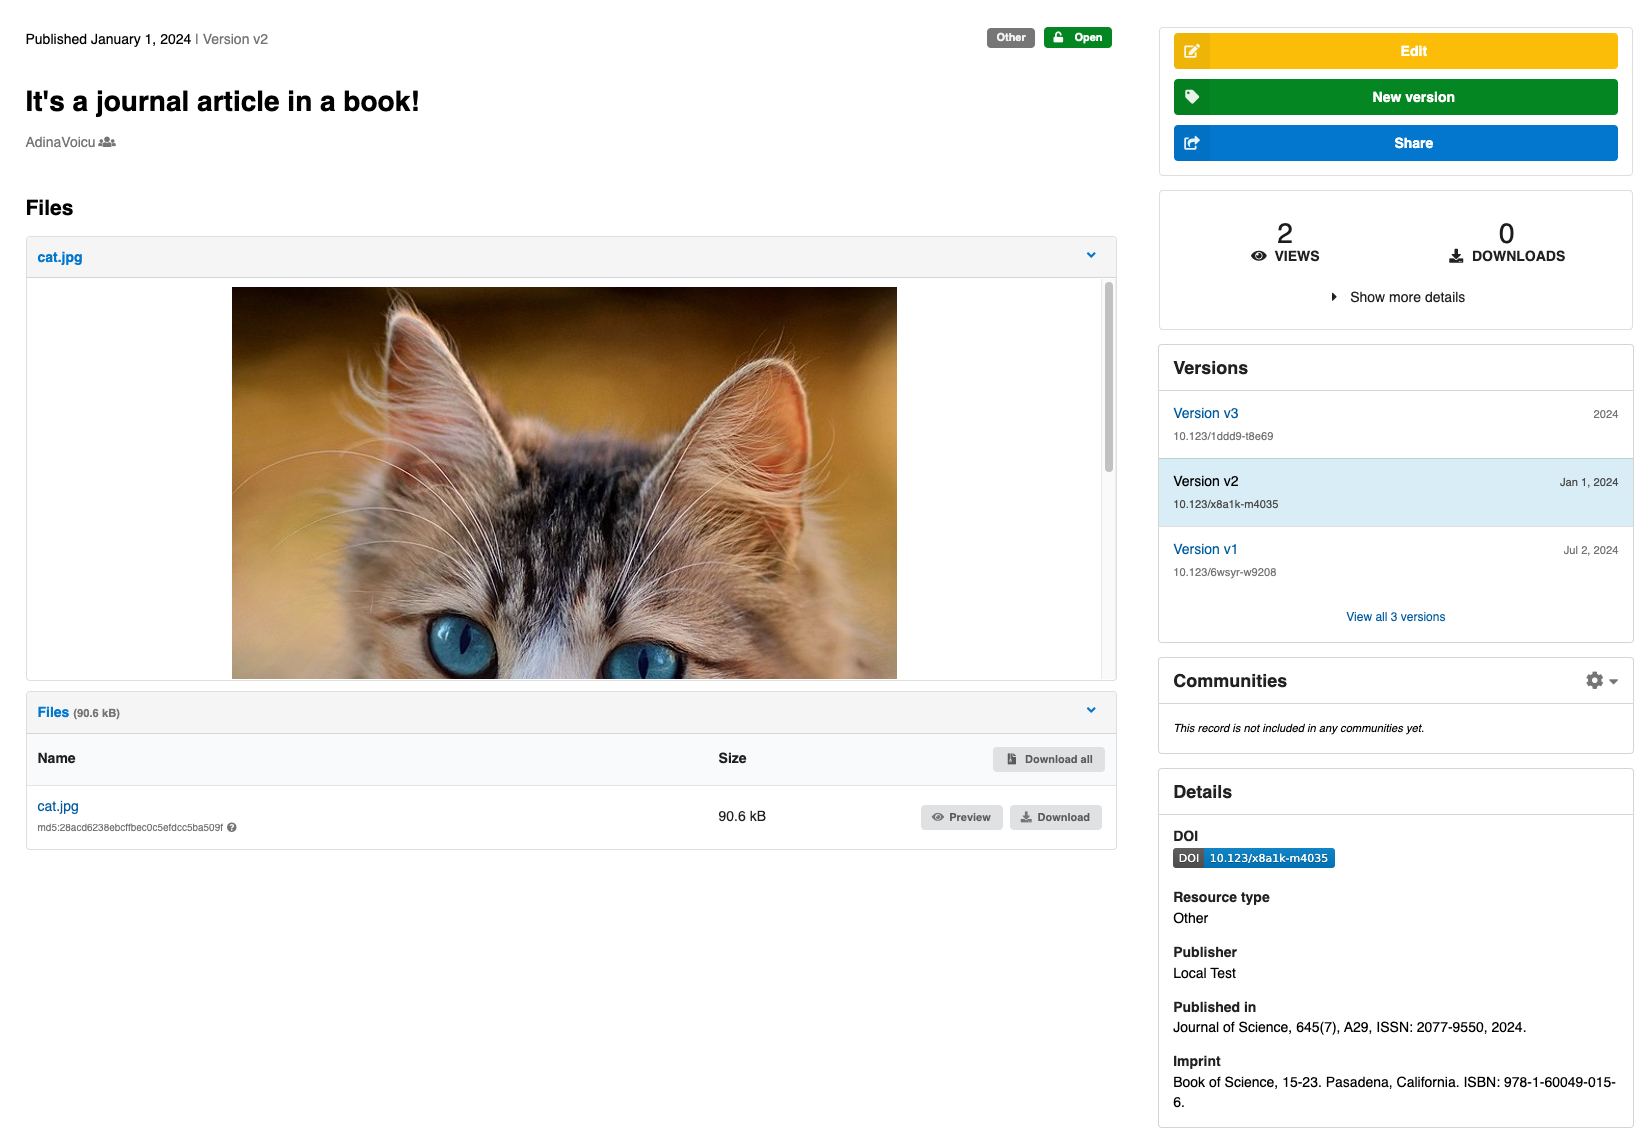
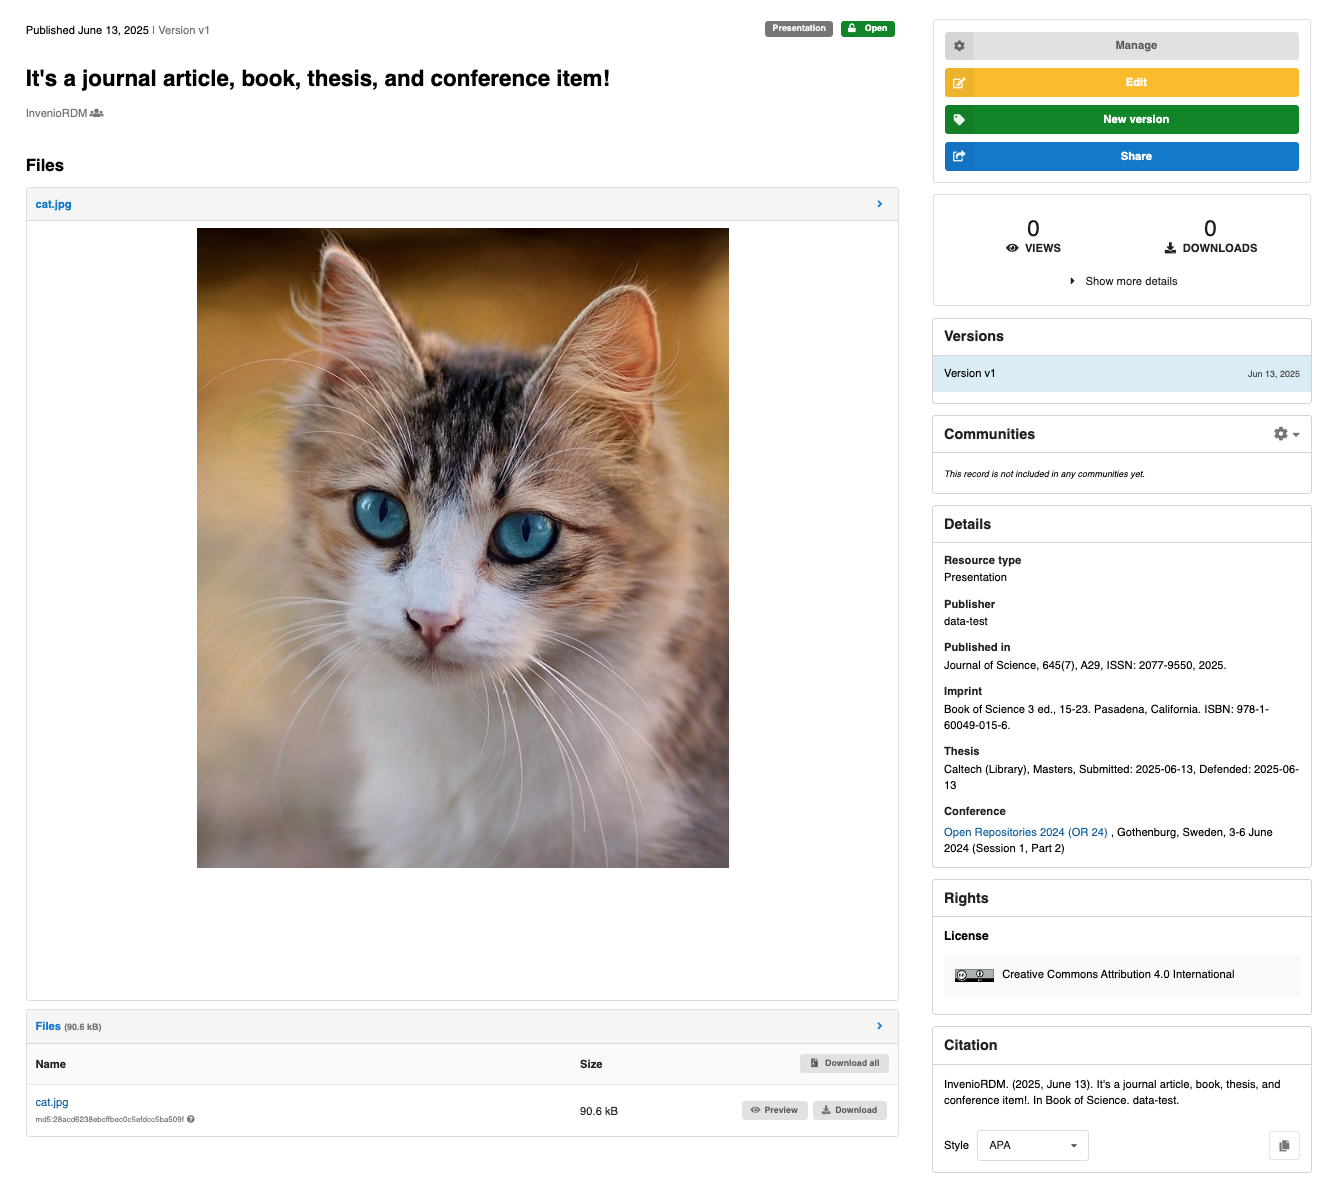
custom fields: add v13 fields and images

diff --git a/docs/operate/customize/metadata/optional_metadata.md b/docs/operate/customize/metadata/optional_metadata.md
@@ -17,7 +17,7 @@ This group of fields contains the metadata for "Journal", "Imprint" and "Thesis"
 
 ![Landing page](./imgs/pub_info_landing_page.png)
 
-Publishing information is typically displayed in the section "Details", on the right side bar, under "Published in", "Imprint", or "Awarding university".
+Publishing information is typically displayed in the section "Details", on the right side bar, under "Published in", "Imprint", or "Thesis".
 
 ### Journal
 
@@ -52,6 +52,9 @@ This field implements thesis metadata. A thesis supervisor can be found in the l
 - **university** `String`: Name of the awarding university.
 - **department** `String`: Department which awarded the thesis.
 - **type** `String`: The type of thesis (e.g. Masters, PhD, Engineers, Bachelors).
+- **date_submitted** `Date`: Date when the thesis was submitted.
+- **date_defended** `Date`: Date when the thesis was defended.
+
 
 ## Meeting
 

diff --git a/docs/operate/customize/metadata/optional_fields.md b/docs/operate/customize/metadata/optional_fields.md
@@ -170,8 +170,8 @@ MEETING_CUSTOM_FIELDS_UI["hide_from_landing_page"] = True
 
 You'll need to initialize the field by typing `pipenv run invenio rdm-records custom-fields init`. Restart your instance, and you should see the fields appear in the deposit form like:
 
-![Optional field result (deposit form)](../imgs/custom_fields_example_deposit_form.png)
+![Optional field result (deposit form)](../imgs/pub_info_deposit_form.png)
 
 and the landing page should look like:
 
-![Optional field result (landing page)](../imgs/custom_fields_example_landing_page.png)
+![Optional field result (landing page)](../imgs/pub_info_landing_page.png)
